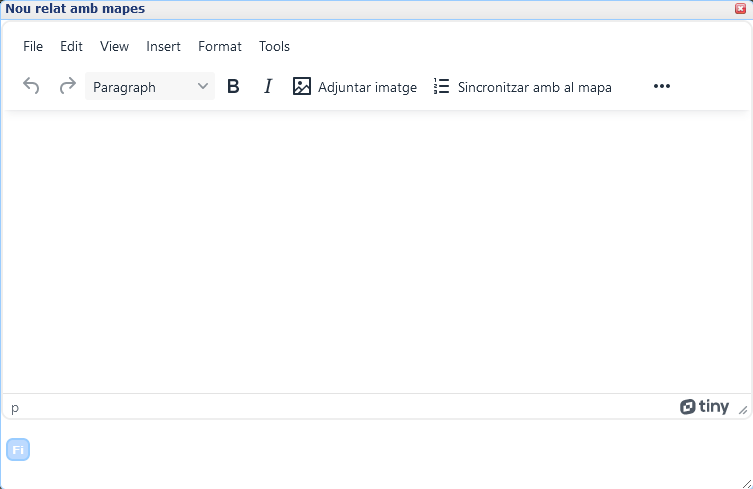
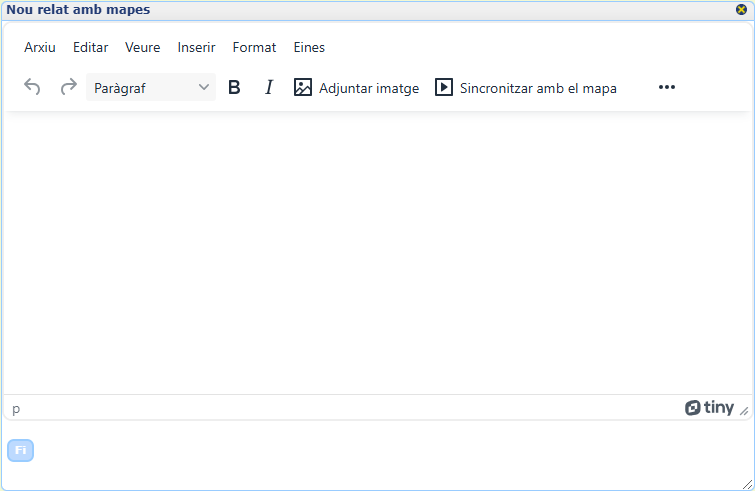
New help text for storymaps in catalan language

diff --git a/src/ajuda/cat/ajuda.htm b/src/ajuda/cat/ajuda.htm
@@ -1440,41 +1440,28 @@ capes afegides.</p>
 	   <td width="97%">
 	   <table>
 	   <tr>
-        <td valign="top"><p class="text_general">Fent
-clic sobre el botó de relats de mapes s'obra una graella 
-amb els relats ja existents i al final d'aquesta trobem la casella 
-per a començar a crear un nou relat. Apareix una nova finestra amb 
-caixetins per a escriure el títol del relat i seleccionar una imatge de 
-portada. El botó següent ens porta ja a la finestra de redacció del cos del relat.</p>
+        <td valign="top"><p class="text_general">Per accedir a la funcionalitat dels relats de mapes hem de clicar sobre el botó amb icona de llibre obert de la barra de botons del navegador. Aquest obre una taula de relats disponibles propis del navegador i que, segons on estem situats en el mapa, l’àmbit actual i l'àmbit on transcorre el relat coincideixen. També a sota d'aquest primer grup de relats si poden llistar els relats vinculats amb el navegador en ús però que han estat descarregats de la plataforma Nimmbus, aquests relats pertanyen a d'altres usuaris que els han compartit públicament amb la resta. Al final de la taula de relats propis del navegador trobem el botó per crear un nou relat. Si es vol crear un relat primer trobem una vista on escollir el títol i una imatge de portada. En el següent pas de la creació de relats i trobem la vista de redacció amb un editor de textos que inclou diverses funcionalitats afegides descrites a continuació.</p>
 <p class="text_general">La part central està reservada per la edició del text. A la part superior de la zona 
 d'edició disposem de diversos botons modificadors del text, un per afegir imatges al relat, 
-un altre per a sincronitzar el mapa amb un fragment del relat i un últim botó per mostrar 
-altres botons. Entre aquests altres botons hi trobem més funcions per modificar el text i 
+un altre per a sincronitzar el mapa amb un fragment del relat i en última posició un botó per mostrar-ne 
+d'altres. Entre aquests altres botons hi trobem més funcions per modificar el text i 
 en últim lloc hi tenim un botó per veure i editar tot el relat en format HTML.</p>
         <div align="center"><img src="relatsEdicioHTML.png" border="0" height="300" width="463">
         </div>
-        <p class="text_general">Les imatges afegides es poden redimensionar mitjançant un pop-up 
-			que apareix després d'haver escollit la imatge. Hi ha preestablert un límit màxim de 
-			la mida de la imatge de 250.000 píxels (500x500 píxels) per evitar problemes 
-			d'emmagatzematge dels relats. Si es supera aquest màxim és obligatori reduir les 
-			dimensions de la imatge per tal de poder-la incloure al relat.</p>
+        <p class="text_general">Si decidim incloure una imatge es podrà redimensionar mitjançant el següent caixetí. A dalt de tot es mostra la mida original en píxels de la imatge triada. Per evitar mancances d'emmagatzematge hi ha fixat un límit màxim de mida per imatge de 250.000 píxels (500x500 píxels). Per això els camps de text d'inici mostren el % d'amplada i el % d'alçada màxims que admetria la imatge en qüestió, i si es canvia les unitats de mesura a píxels (px) el costat més llarg de la imatge serà 500 px mentre que l'altre dependrà de la proporció entre llargada i amplada que hi hagi. En cas de superar aquest nombre màxim de píxels es mostra un avís informatiu suggerint de modificar algun dels valors per tal de reduir-ne la quantitat.</p>
 			<div align="center"><img src="relatsEdicioImatge.png" border="0" height="160" width="541">
 			</div>
-		<p class="text_general">Per treure profit del mapa disposem d'una funció per sincronitzar 
-			una part del relat amb la situació i capes visibles en un moment determinat del mapa. 
-			Això vol dir que en llegir aquest fragment del relat el mapa canviarà la seva disposició 
-			per mostrar-nos quelcom que s'adequa al text. Per fer-ho és necessari haver preseleccionat 
-			el fragment a sincronitzar abans de prémer el botó per fer la sincronització, del contrari 
-			apareix un missatge d'avís per recordar-ho. Un cop sincronitzat un determinat fragment de 
-			relat es simbolitza mitjançant un petit icona situat al final d'aquest.</p>
-			<div align="center"><img src="relatsEdicioSincro.png" border="0" height="250" width="384">
+		<p class="text_general">La característica pròpia dels relats de mapes és que a mesura que es ressegueix el relat escrit el mapa s'adapta i canvia per tal de donar suport gràfic al mateix relat. Per aconseguir aquest comportament a mesura que es redacta el relat s'ha de procurar sincronitzar el mapa en determinats punts a on hi ha un canvi de situació, on és precís focalitzar l'atenció del lector en un tipus de informació gràfica amb un canvi de visualització de capes, etc. Aquesta sincronització la podem fer amb el botó "Sincronitzar amb el mapa". En clicar-lo ens apareix un diàleg que per defecte té totes les opcions seleccionades. Per ara podem sincronitzar "posició i zoom" per visitar aquella part del mapa més convenient, "capes i estils" per mostrar les capes d'informació amb la parametrització adequada, "dimensions" per ajustar el subconjunt de dades de dins d'una capa i finalment "data" per visualitzar dins d'una sèrie temporal les dades d'un moment en el temps precís.
+			Un cop sincronitzat el mapa amb el relat en el paràgraf on teníem situat el cursor o en el fragment de text i/o imatges que teníem seleccionat, en el moment que el lector arriba a la part de text sincronitzada amb el mapa aquest últim s'actualitza segons aquells aspectes. Per fer visibles els punts de sincronia es mostra una imatge a l'inici de text afectat.</p>
+			<div align="center"><img src="relatsEdicioSincro.png" border="0" height="250" width="394">
 			</div>
 			<br>
-			<div align="center"><img src="relatsEdicioComplet.png" border="0" height="472" width="384">
+			<div align="center"><img src="relatsEdicioComplet.png" border="0" height="472" width="444">
 			</div>
-			<p class="text_general">Per finalitzar el relat es prem el botó Fi. El relat recentment creat apareixerà al 
-				final de la graella de relats i oferirà l'opció de pujar-lo al Nimmbus per poder-lo compartir 
-				amb altres usuaris i/o guardar-lo per sessions futures.</p>
+			<p class="text_general">Sota de l'àrea d'edició del relat hi ha el botó "Fi" per finalitzar el procés de redacció i guardar el relat. Al final de la taula de relats hi apareixerà el nou relat on es podrà llegir, editar o bé compartir a través de la plataforma Nimmbus al núvol.</p>
+			<div align="center"><img src="relatsLectura.png" border="0" height="472" width="404">
+			</div>
+			<p class="text_general">En seleccionar un relat per a llegir-lo s'obra un vista amb el contingut del relat amb el text i les imatges en la part principal de la vista. A sobre del relat hi trobem el botó d'editar que ens permetria seguir els mateixos passos que durant la redacció d'un relat nou però ara amb el contingut corresponent al relat que s'està editant. Un botó de compartir per tal de guardar el relat a la plataforma Nimmbus i fer-lo accessible a tot altri que utilitzi aquest mateix navegador. Finalment a la part dreta superior hi trobem 2 botons de navegació "Prèvia" i "Següent" com a alternativa de moviment al scroll del ratolí al llarg del relat. Aquests botons permeten saltar d'un punt de sincronisme a un altre.</p>
 		</td>
 		<td width="1%"></td>
 		<td><img src="relatMapaEdicio.png" border="0" height="388" width="597"></td>
